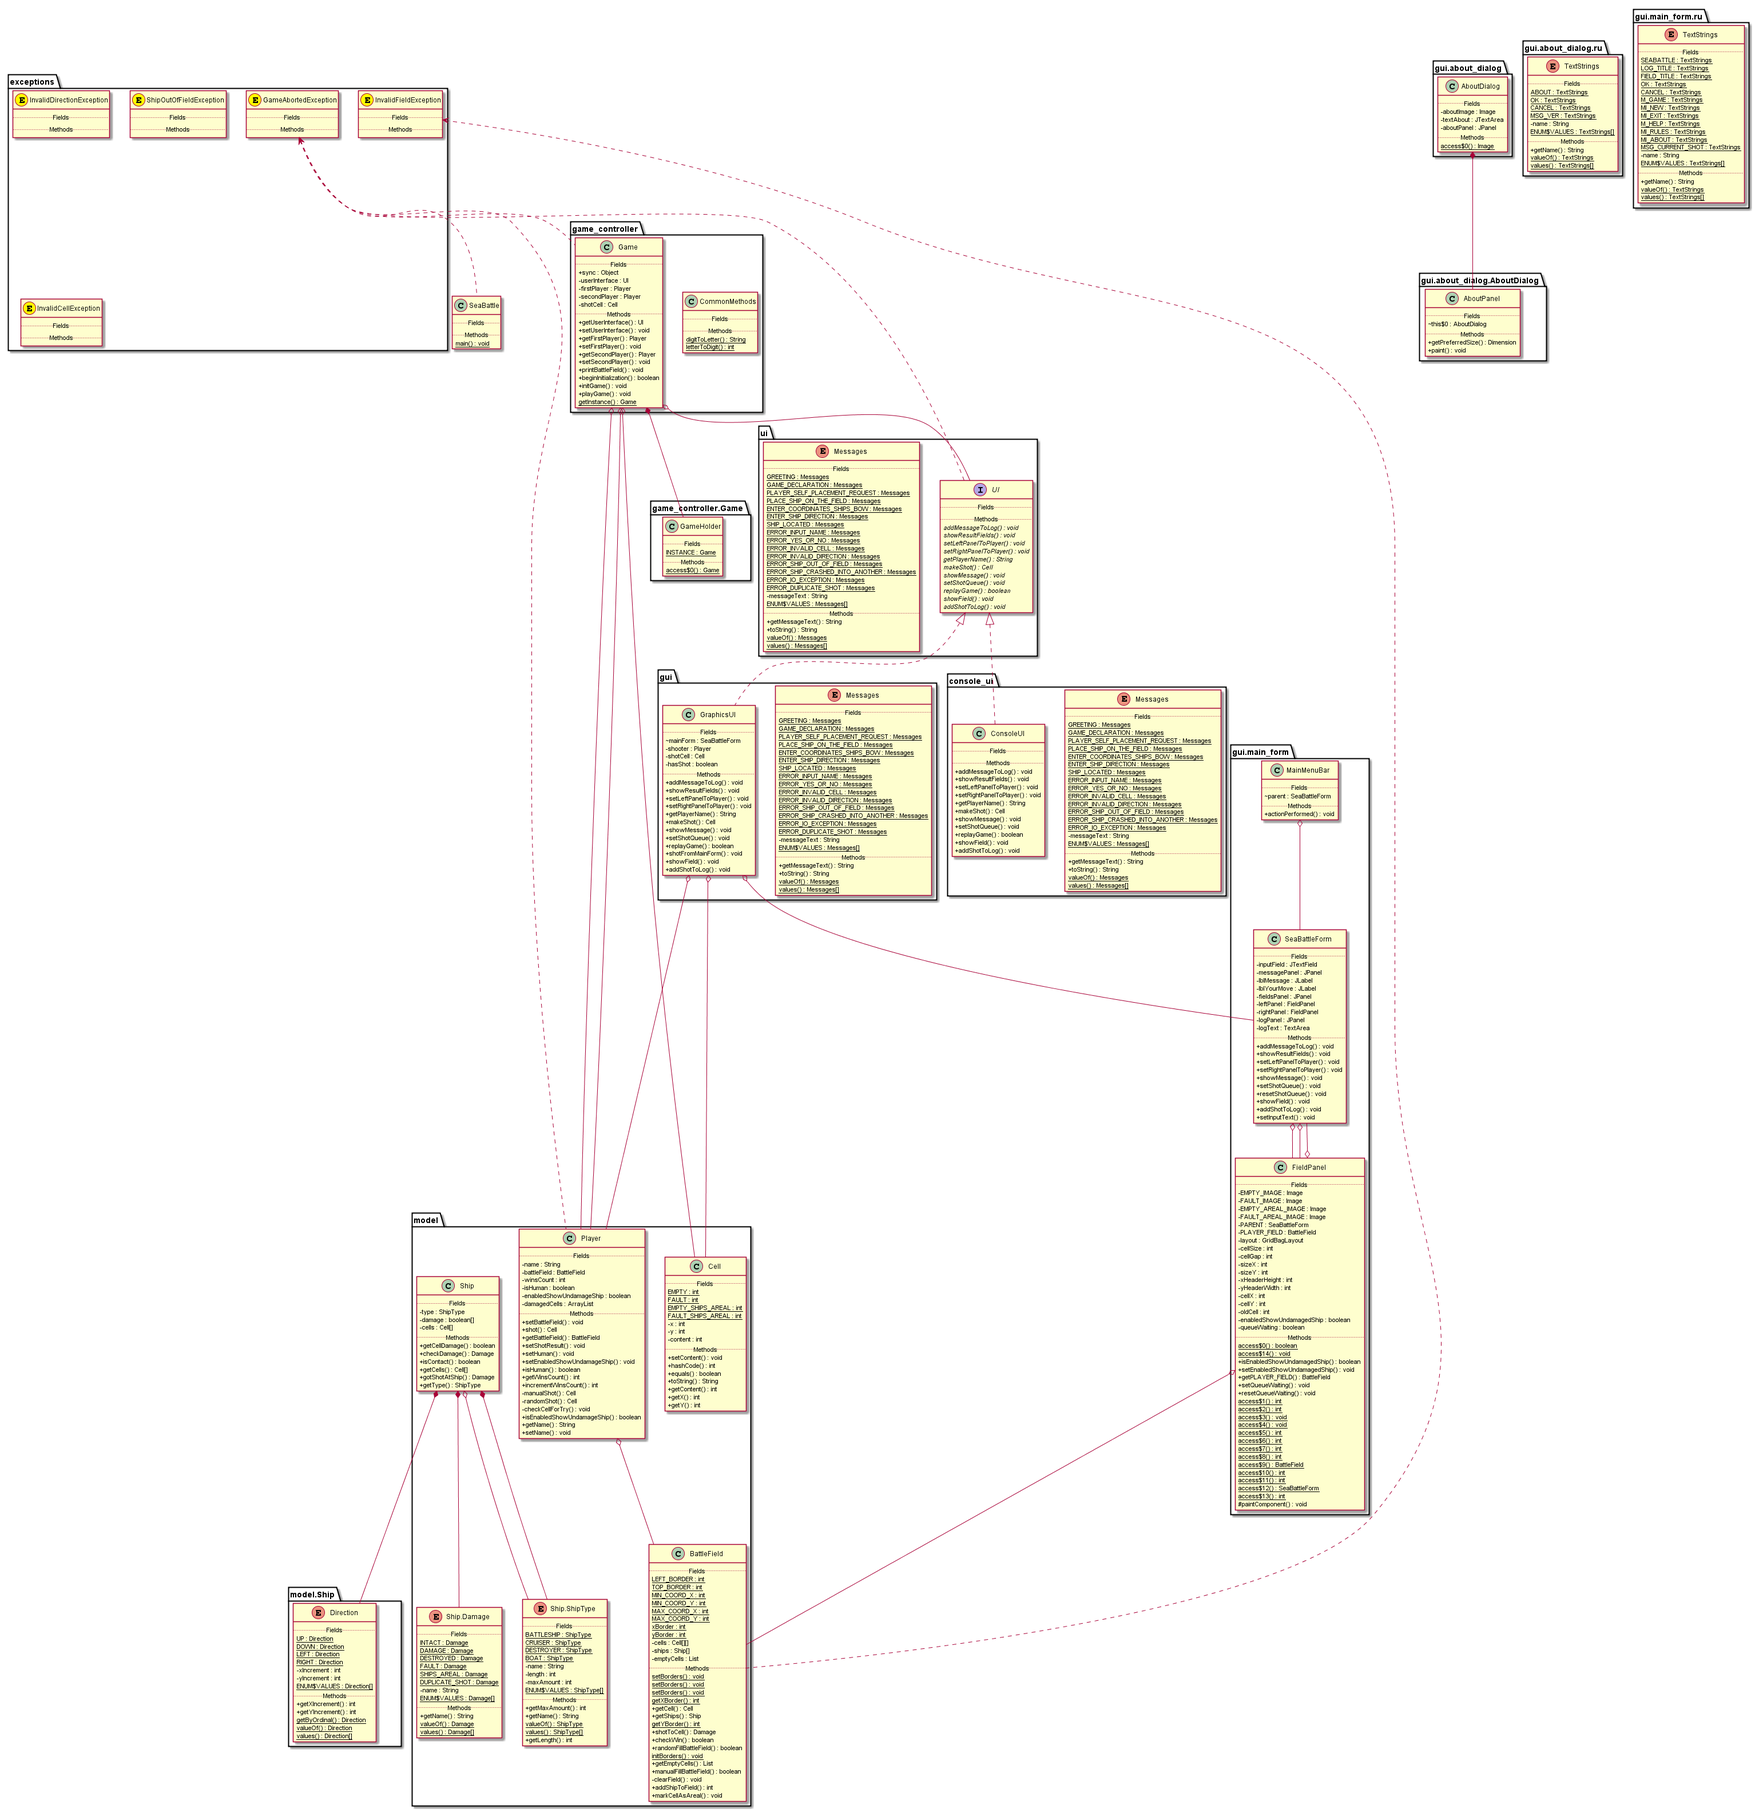
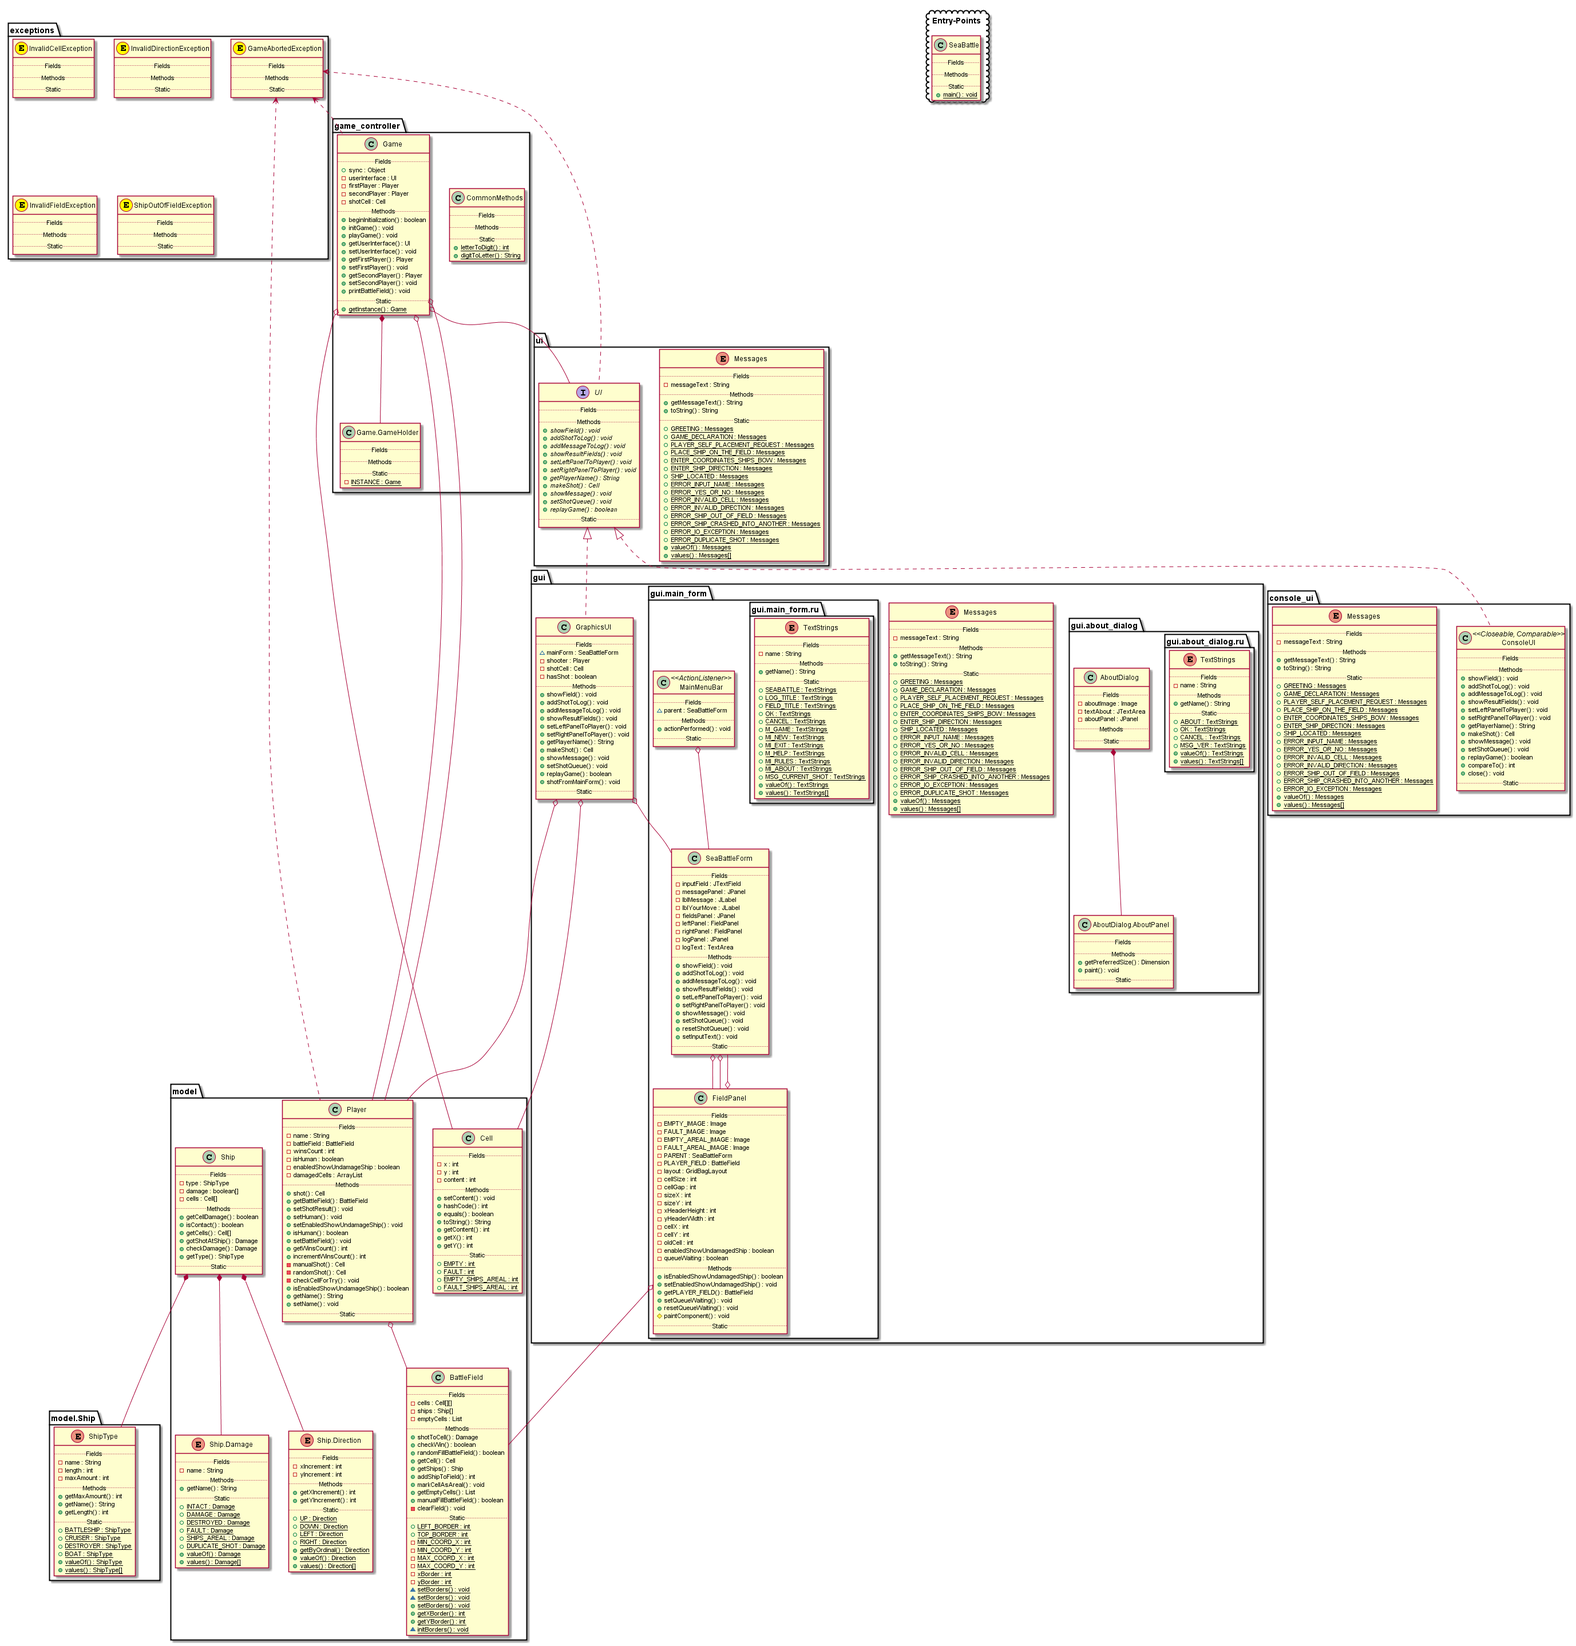
Добавлено: - вложенные пакеты; - внешние интерфейсы прописываются в заголовке класса (вместо интерфейсов-леденцов); - сортировка полей, методов: для статических членов выделена отдельная секция - отладка связей: композиция и агрегация создаются по уточненным правилам; - обозначение точки входа (выде

diff --git a/master_r1_affect205/src/com/github/java2uml/DataExtractor.java b/master_r1_affect205/src/com/github/java2uml/DataExtractor.java
@@ -8,11 +8,15 @@ import java.io.OutputStream;
 import java.lang.reflect.Field;
 import java.lang.reflect.Method;
 import java.lang.reflect.Modifier;
+import java.util.ArrayList;
 import java.util.Arrays;
+import java.util.HashMap;
 import java.util.HashSet;
-import java.util.Hashtable;
+import java.util.List;
+import java.util.Map;
 import java.util.Map.Entry;
 import java.util.Set;
+import java.util.TreeMap;
 
 import net.sourceforge.plantuml.SourceStringReader;
 
@@ -30,35 +34,69 @@ public class DataExtractor {
         source.append("skinparam classAttributeIconSize 0\n");
         
         // таблица пакетов для всех входящих классов
-        Hashtable<String, String> packages = new Hashtable<>();
+        Map<String, String> packages = new TreeMap<>();
         for (Class clazz : classes) {
         	packages.put(getPackageName(clazz.getCanonicalName()), "");
         }
         
-        // множество связей: исключение <.. класс
+        // множество связей для бросаемых исключений: исключение <.. класс
         Set<String> throwLinks = new HashSet<String>();
+        
+        // хэш точек входа: определяем по public static методу с именем main
+        Map<String, String> entryPoints = new HashMap<>();
         
         // объявление классов...
         for (Class clazz : classes) {
-        	// анонимные классы пока игнорируем
-        	if (clazz.isAnonymousClass()) {
+        	// анонимные классы и классы, доюавленные компилятором, пока игнорируем
+        	if (clazz.isAnonymousClass() || clazz.isSynthetic()) {
         		continue;
         	}
         	
         	// получение информации о классе
-            // String className 	= (clazz.getSimpleName().isEmpty()) ? clazz.getCanonicalName() : clazz.getSimpleName();
         	String className 	= clazz.getCanonicalName();
             String classPack	= getPackageName(clazz.getCanonicalName());
             
             // объявляем класс и его содержимое
             StringBuilder res = new StringBuilder();
             res.append(getClassModifiers(classes, clazz));
+            
+            // реализуемые интерфейсы, не попавшие во входное множество
+            StringBuilder outerInterfaces = new StringBuilder();
+            for (Class inter : clazz.getInterfaces()) {
+            	if (!classes.contains(inter)) {
+            		// внешний интерфейс - укажем
+            		outerInterfaces.append(inter.getSimpleName());
+            		outerInterfaces.append(", ");
+            	}
+            }
+            if (!outerInterfaces.toString().isEmpty()) {
+            	String impl = outerInterfaces.toString(); 
+            	res.append(" <<");
+            	res.append(impl.substring(0, impl.length()-2));
+            	res.append(">> ");
+            }
             res.append(" {\n"); 
+            
+            // буфер статических членов класса
+            StringBuilder staticMembers = new StringBuilder();
             
             // получение информации о полях
             Field[] fields = clazz.getDeclaredFields();
             res.append(".. Fields ..\n");
             for (Field field : fields) {
+            	if (field.isSynthetic()) {
+                	// выводим только объявленные структуры
+                	continue;
+                }
+            	if (Modifier.isStatic(field.getModifiers())) {
+            		// статические члены в конец объявления
+            		staticMembers.append(getMemberModifiers(field.getModifiers()));
+            		staticMembers.append(field.getName());
+            		staticMembers.append(" : ");
+            		staticMembers.append(field.getType().getSimpleName());
+            		staticMembers.append("\n");
+            		continue;
+            	}
             	res.append(getMemberModifiers(field.getModifiers()));
             	res.append(field.getName());
             	res.append(" : ");
@@ -70,11 +108,31 @@ public class DataExtractor {
             Method[] methods = clazz.getDeclaredMethods();
             res.append(".. Methods ..\n");
             for (Method method : methods) {
-                res.append(getMemberModifiers(method.getModifiers()));
+            	if (method.isSynthetic()) {
+            		// выводим только объявленные структуры
+            		continue;
+            	}
+            	if (Modifier.isStatic(method.getModifiers())) {
+            		// статические члены в конец объявления
+            		staticMembers.append(getMemberModifiers(method.getModifiers()));
+            		staticMembers.append(method.getName());
+            		staticMembers.append("()");
+            		staticMembers.append(" : ");
+            		staticMembers.append(method.getReturnType().getSimpleName());
+            		staticMembers.append("\n");
+            		
+            		// определяем точку входа
+            		if (Modifier.isPublic(method.getModifiers()) && method.getName().equals("main")) {
+            			entryPoints.put(clazz.getCanonicalName(), "");
+            		}
+            		continue;
+            	}
+            	res.append(getMemberModifiers(method.getModifiers()));
                 res.append(method.getName());
                 res.append("()");
                 res.append(" : ");
-                res.append(method.getReturnType().getSimpleName() + "\n");
+                res.append(method.getReturnType().getSimpleName());
+                res.append("\n");
                 
                 // бросает ли метод исключение
                 for (Class exception : method.getExceptionTypes()) {
@@ -88,29 +146,134 @@ public class DataExtractor {
                 	}
                 }
             }
+            
+            // инфорация о статике
+            res.append(".. Static ..\n");
+            res.append(staticMembers.toString());
+            
             // закрываем класс
             res.append("}\n");
             
-            // добавляем класс в таблицу пакетов
-            packages.put(classPack, packages.get(classPack) + res.toString());
+            // добавляем класс в таблицу пакетов (класс с точками входа идут в отдельный пакет)
+            if (entryPoints.containsKey(clazz.getCanonicalName())) {
+            	entryPoints.put(clazz.getCanonicalName(), res.toString());
+            } else {
+            	packages.put(classPack, packages.get(classPack) + res.toString());
+            }
         }
         
-        // вывод объявленных классов
-		for (Entry<String, String> entry : packages.entrySet()) {
-			if (entry.getKey().equals("<default_pack>")) {
-				// связи меж пакетом
-				source.append(entry.getValue());
-				source.append("\n");
-				continue;
-			}
-			// связи внутри пакетов
-			source.append("package ");
-			source.append(entry.getKey());
-			source.append(" {\n");
-			source.append(entry.getValue());
-			source.append(" }\n");
-		}
+        // вывод объявленных классов с учетом пакетов и их влроженности 
+        List<String> packList = new ArrayList<>();
+        StringBuilder buffer = new StringBuilder();
+        for (Entry<String, String> entry : packages.entrySet()) {
+        	if (entry.getValue().trim().isEmpty()) {
+        		// добавлять нечего - пропускаем
+        		continue;
+        	}
+        	if (packList.isEmpty()) {
+        		// список пуст - добавим текущий пакет
+        		packList.add(entry.getKey());
+        		buffer.append("package ");
+        		buffer.append(entry.getKey());
+        		buffer.append(" {\n");
+        		buffer.append(entry.getValue());
+        		buffer.append("\n");
+        	} else {
+        		// индекс - является ли текущий пакет пакетом из списка
+        		int packNdx = -1;
+        		for (int i=0; i < packList.size(); ++i) {
+        			if (entry.getKey().contains(packList.get(i))) {
+        				packNdx = i;
+        			}
+        		}
+        		if (packNdx > -1) {
+        			// пакет вложен - буферизуем пакеты, в которые не входит текущий
+        			for (int i=packNdx; i < packList.size(); ++i) {
+        				if (i==packNdx) {
+        					// первый пакет не учитываем
+        					continue;
+        				}
+        				String pack = packList.get(i);
+        				buffer.append("package ");
+                		buffer.append(pack);
+                		buffer.append(" {\n");
+                		buffer.append(packages.get(pack));
+                		buffer.append("\n");
+        			}
+        			// закрывам скобки
+        			for (int i=packNdx; i < packList.size(); ++i) {
+        				if (i==packNdx) {
+        					// первый пакет не учитываем
+        					continue;
+        				}
+        				buffer.append("}\n");
+        			}
+        			// удаляем буфиризированные пакеты
+        			List<String> rest = new ArrayList<>();
+        			rest.addAll(packList.subList(0, packNdx+1));
+        			packList.clear();
+        			for (String pack : rest) {
+        				packList.add(pack);
+        			}
+        			// добавляем текущий пакет
+        			packList.add(entry.getKey());
+        		} else {
+        			// пакет не вложен - буферезуем весь список
+        			for (int i=1; i < packList.size(); ++i) {
+        				// i=1 - первый пакет буферизируется при добавлении в список 
+        				String pack = packList.get(i);
+        				buffer.append("package ");
+                		buffer.append(pack);
+                		buffer.append(" {\n");
+                		buffer.append(packages.get(pack));
+                		buffer.append("\n");
+        			}
+        			// закрывам скобки
+        			for (int i=0; i < packList.size(); ++i) {
+        				buffer.append("}\n");
+        			}
+        			// очищаем список
+        			packList.clear();
+        			// добавляем новый пакет и буферезуем его
+        			packList.add(entry.getKey());
+        			buffer.append("package ");
+            		buffer.append(entry.getKey());
+            		buffer.append(" {\n");
+            		buffer.append(packages.get(entry.getKey()));
+            		buffer.append("\n");
+        		}
+        	}
+        }
         
+        if (!packList.isEmpty()) {
+        	// добавим в буфер последние пакеты
+        	for (int i=1; i < packList.size(); ++i) {
+				String pack = packList.get(i);
+				buffer.append("package ");
+        		buffer.append(pack);
+        		buffer.append(" {\n");
+        		buffer.append(packages.get(pack));
+        		buffer.append("\n");
+			}
+			// закрывам скобки
+			for (int i=0; i < packList.size(); ++i) {
+				buffer.append("}\n");
+			}
+        }
+        // очищаем список пакетов
+		packList.clear();
+		
+		// добавляем содерфимое буфера в сборщик
+		source.append(buffer.toString());
+		
+		// определение точек входа
+		source.append("package Entry-Points <<Cloud>> {\n");
+		for (Entry entry : entryPoints.entrySet()) {
+			source.append(entry.getValue());
+			source.append("\n");
+		}
+		source.append("}\n");
+		        
         // определение межклассовых связей
         for (Class clazz : classes) {
         	if ( clazz.getSimpleName().isEmpty() ) {
@@ -146,16 +309,19 @@ public class DataExtractor {
                     source.append(" <|.. ");
                     source.append(className);
                     source.append("\n");
-                }
+                } 
             }
 
             // получение внешних классов, являющихся полями clazz, объявленных вне clazz
             Field[] fieldClasses = clazz.getDeclaredFields();
             for (Field fieldClass : fieldClasses) {
-                if (fieldClass.getType() instanceof Object) {
+            	if (fieldClass.getType() instanceof Object) {
                     if (classes.contains(fieldClass.getType())) {
                     	if (className.equals(fieldClass.getType().getCanonicalName())) {
                     		// связь на самого себя не учитываем
+                    		continue;
+                    	}
+                    	if (fieldClass.getType().isEnum()) {
                     		continue;
                     	}
                     	if ( isDeclared(fieldClass.getType(), clazz) ) {
@@ -163,7 +329,7 @@ public class DataExtractor {
                     		continue;
                     	}
                         // поле есть внешний класс - добавляем связь агрегирование
-                        source.append(className);
+                    	source.append(className);
                         source.append(" o-- ");
                         source.append(fieldClass.getType().getCanonicalName());
                         source.append("\n");
@@ -278,10 +444,10 @@ public class DataExtractor {
             modStr = "+";
         }
         if (Modifier.isAbstract(mod)) {
-            modStr = "{abstract} " + modStr;
+            modStr += " {abstract} ";
         }
         if (Modifier.isStatic(mod)) {
-            modStr = "{static} " + modStr;
+            modStr += " {static} ";
         }
         return modStr;
     }
